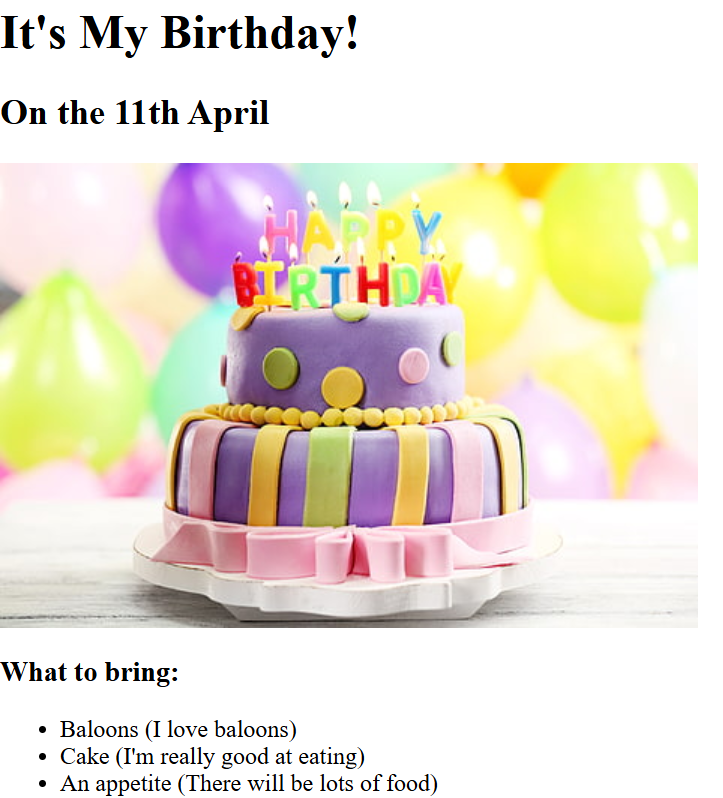
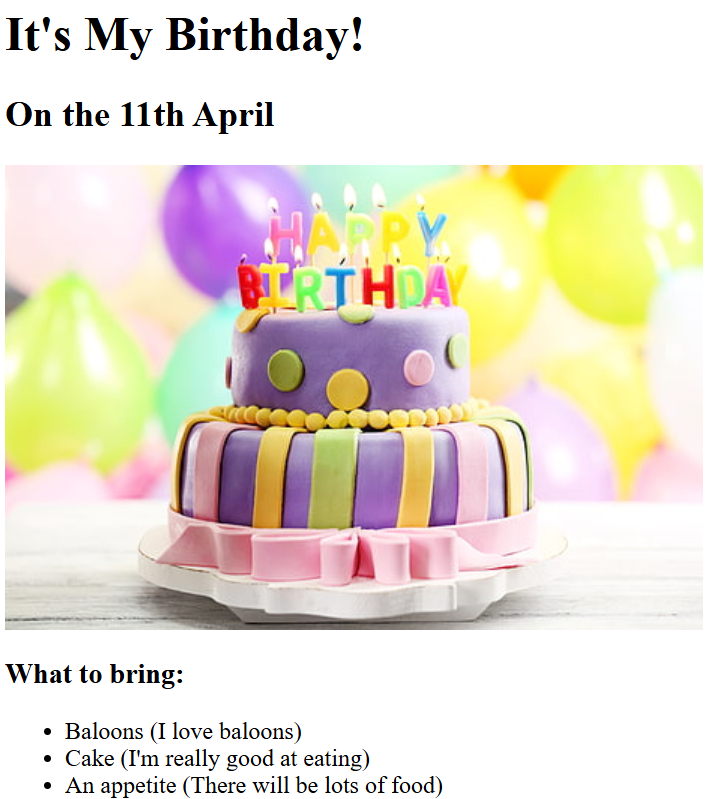
Add files via upload

diff --git a/about.html b/about.html
@@ -1,0 +1,20 @@
+<h1>About Me</h1>
+<p>Lorem ipsum dolor sit amet, consectetur adipiscing elit. Pellentesque sem tellus, sagittis non odio nec, interdum
+  elementum lacus. Ut ac justo eget risus sollicitudin fringilla sed ut leo. Ut condimentum elit nec fermentum lobortis.
+  Quisque tincidunt quam nec tincidunt ullamcorper. Integer vitae pretium justo. In placerat volutpat pellentesque.
+  Etiam
+  gravida quam vitae odio pulvinar imperdiet. Vivamus venenatis gravida purus sit amet aliquet. Ut in nibh sed quam
+  laoreet lacinia. Cras cursus ut dui vitae posuere. Vivamus volutpat urna vitae odio fringilla placerat. Nulla vel
+  rhoncus sapien. Phasellus at interdum enim.</p>
+
+<p>Curabitur elementum sagittis mollis. In porta nec quam ut semper. Nulla volutpat neque quis lacus mattis eleifend.
+  Phasellus et congue odio. Mauris tristique, nisl quis porttitor porttitor, tortor ante mattis ex, at dictum tortor
+  dolor
+  ut sem. Nullam nec libero non ex porta vulputate a eu sapien. In nec bibendum mauris. Fusce iaculis lectus vel magna
+  laoreet gravida.</p>
+
+<p>Donec euismod vestibulum arcu, a blandit metus mattis ultrices. Integer quis hendrerit justo. Maecenas sed tempor mi.
+  Fusce egestas urna leo. Mauris viverra sem sed libero egestas, volutpat aliquet magna porta. Quisque id diam sed ipsum
+  interdum sollicitudin id quis augue. Donec congue nisl nec massa ornare imperdiet quis quis odio. Etiam ut volutpat
+  nisl. Vestibulum hendrerit justo nibh, eget consequat magna fermentum finibus. Pellentesque et urna fringilla, rutrum
+  neque in, varius leo. Vestibulum efficitur id massa eget pellentesque.</p>

diff --git a/index.html b/index.html
@@ -1,20 +1,22 @@
 <!DOCTYPE html>
-<html lang="en">
+-<html lang="en">
+
 <head>
-    <meta charset="UTF-8">
-    <meta name="viewport" content="width=device-width, initial-scale=1.0">
-    <title>My Portfolio</title>
+  <meta charset="UTF-8">
+  <title>Vera's Portfolio</title>
 </head>
+
 <body>
-<h1>Vera's Portfolio</h1>
-<h2>I'm a web developer</h2>
-<hr />
-<h3><a href="./public/2.4+Movie+Ranking+Project">Movie Ranking Project</a></h3>
-<img src="./assets/images/vera-best-movies.png" alt="movie ranking project preview" height="200" />
-<h3><a href="./public/Screenshot_2023-04-05_10-30-45.png">Birthday Invite Project</a></h3>
-<img src="./assets/images/birthday-invites.png" alt="birthday invite project preview" height="200" />
-<hr />
-<a href="./public/About V.png">About Me</a>
-<a href="./public/Contact V.png">Contact Me</a>
+  <h1>Vera Ifiona Portfolio</h1>
+  <h2>I'm a Web Developer</h2>
+  <hr />
+  <h3><a href="./public/movie-ranking-v.png">Movie Ranking Project</a></h3>
+  <img src="./assets/images/movie-ranking-v.png" height="200" alt="movie ranking project preview"/>
+  <h3><a href="./public/birthday-invites.png">Birthday Invite Project</a></h3>
+  <img src="./assets/images/birthday-invites.png" height="200" alt="birthday invite project preview"/>
+  <hr />
+  <a href="./public/about-vera.png">About Me</a>
+  <a href="./public/contact-v.png">Contact Me</a>
 </body>
+
 </html>

diff --git a/birthday-invite.html b/birthday-invite.html
@@ -1,0 +1,18 @@
+<!-- This is one possible solution -->
+<h1>It's My Birthday!</h1>
+<h2>On the 12th May</h2>
+
+<img src="https://raw.githubusercontent.com/appbrewery/webdev/main/birthday-cake3.4.jpeg"
+  alt="purple birthday cake with candles" />
+
+<h3>What to bring:</h3>
+<ul>
+  <li>Baloons (I love baloons)</li>
+  <li>Cake (I'm really good at eating)</li>
+  <li>An appetite (There will be lots of food)</li>
+</ul>
+
+<h3>This is where you need to go:</h3>
+<a
+  href="https://www.google.com/maps/@35.7040744,139.5577317,3a,75y,289.6h,87.01t,0.72r/data=!3m6!1e1!3m4!1sgT28ssf0BB2LxZ63JNcL1w!2e0!7i13312!8i6656">Google
+  map link</a>

diff --git a/movie-ranking.html b/movie-ranking.html
@@ -1,0 +1,9 @@
+<h1>The Best Movies According to Angela</h1>
+<h2>My top 3 movies of all-time.</h2>
+<hr />
+<h3>Spirited Away</h3>
+<p>This is my favourite anime. I love the beautiful images.</p>
+<h3>Ex Machina</h3>
+<p>Really cool sci-fi movie.</p>
+<h3>Drive</h3>
+<p>Super beautiful film. Really artistic.</p>

diff --git a/contact.html b/contact.html
@@ -1,0 +1,9 @@
+<h1>Contact Me</h1>
+<p>Tel: +123456789</p>
+<p>Email: me@gmail.com</p>
+<p>Address:</p>
+<p>
+  123 North Street<br />
+  Some City<br />
+  Some Country <br />
+</p>
